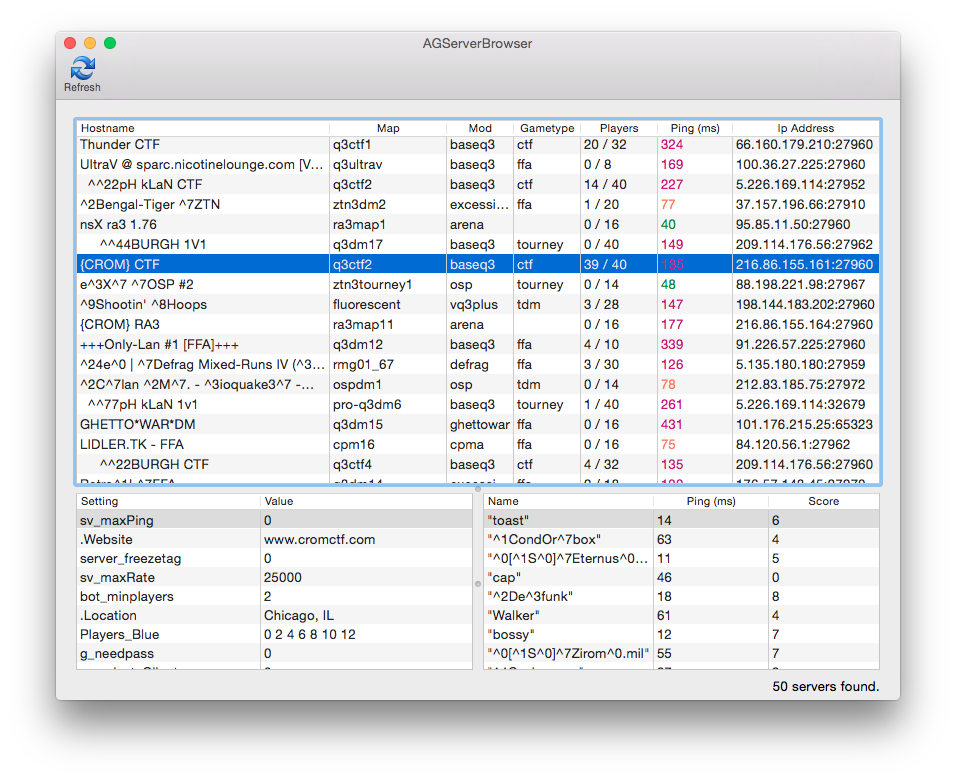
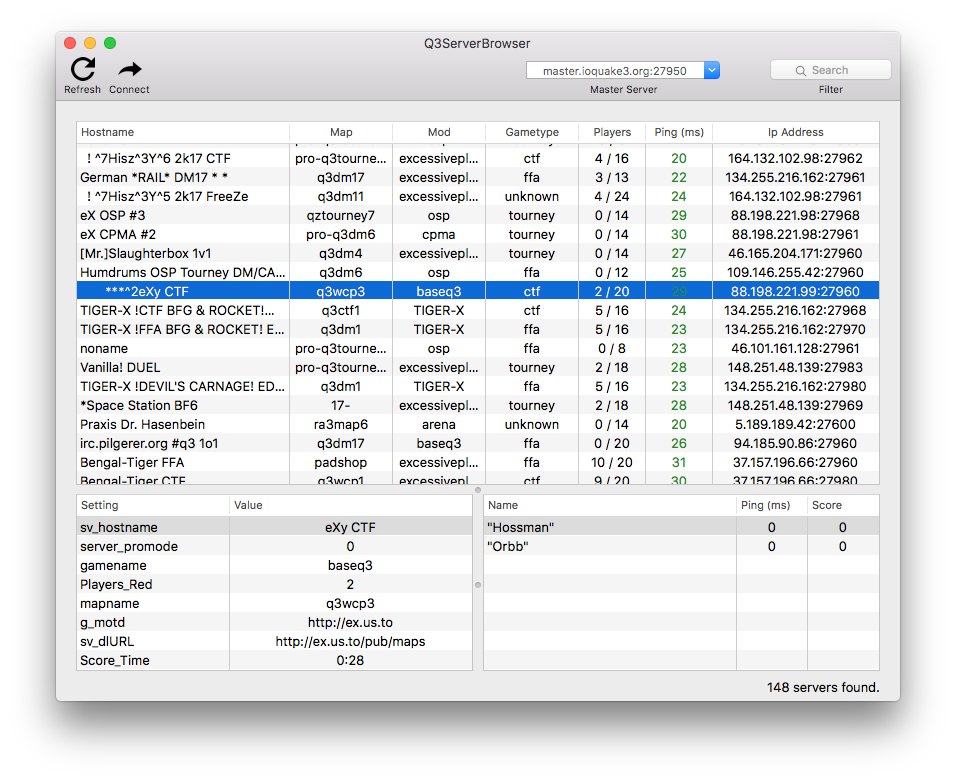
minor improvements and bug fixing

Changed region(s): [[0.0607, 0.0308, 0.9404, 0.8615], [0.7887, 0.8615, 0.91, 0.8923], [0.4247, 0.0308, 0.546, 0.0615]]

diff --git a/Q3ServerBrowser/Classes/ViewController/ViewController.swift b/Q3ServerBrowser/Classes/ViewController/ViewController.swift
@@ -27,7 +27,7 @@ class ViewController: NSObject {
     fileprivate var filterString = ""
     fileprivate var players = [Q3ServerPlayer]()
     fileprivate var rules = [String: String]()
-    fileprivate var selectedServerIndex: Int = 0
+    fileprivate var selectedServerIndex: Int?
 
     func windowShouldClose(_ sender: Any) -> Bool {
         NSApp.terminate(nil)
@@ -320,10 +320,16 @@ extension ViewController: NSTableViewDelegate {
     
     func tableViewSelectionDidChange(_ aNotification: Notification) {
         
-        guard let tableView = aNotification.object as? NSTableView else { return }
+        guard
+            let tableView = aNotification.object as? NSTableView
+        else {
+            return
+        }
+        
         if tableView == serversTableView {
             let selectedRow = serversTableView.selectedRow
-            if selectedRow < filteredServers.count {
+            if selectedServerIndex == nil || (selectedServerIndex != nil && selectedServerIndex! != selectedRow && selectedRow < filteredServers.count) {
+                selectedServerIndex = selectedRow
                 rules.removeAll()
                 players.removeAll()
                 rulesTableView.reloadData()

diff --git a/README.md b/README.md
@@ -1,23 +1,12 @@
-AGServerBrowser
+Q3ServerBrowser
 ==============
+A simple game server browser for Quake 3 Arena (protocol 68).
 
-A simple skeleton app to be used to create a game server browser. The initial versions implements the Quake 3 Arena 1.32 (protocol 68) game but the app is designed to make it easy to add new games.
+![1](Q3ServerBrowser.png)
 
-Games supported:
-- Quake 3 Arena ([protocol](http://src.gnu-darwin.org/ports/games/masterserver/work/masterserver-0.4.1/docs/PROTOCOLS))
-
-![1](https://github.com/andreagiavatto/AGServerBrowser/blob/master/AGServerBrowser-Q3.png)
-
-## Usage
-The project uses [CocoaPods](http://cocoapods.org/) to fetch a couple of external pods like [Reachability](https://github.com/tonymillion/Reachability) and [CocoaAsyncSocket](https://github.com/robbiehanson/CocoaAsyncSocket).
-
-Simply download/clone the project and run
-```pod install```
-
-## System Requirements
-The minimum system requirements are the ones needed by the 3rd party libraries used.
-CocoaAsyncSocket requires MacOS X 10.7 to run.
+## Min OS
+The minimum system requirements are Mac OS X 10.10
 
 ## TO-DO
-- add sorting/filtering
+- add column sorting
 - support more games :-)
